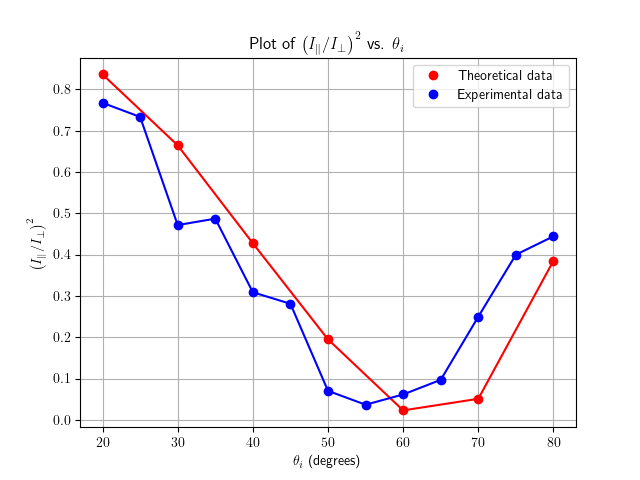
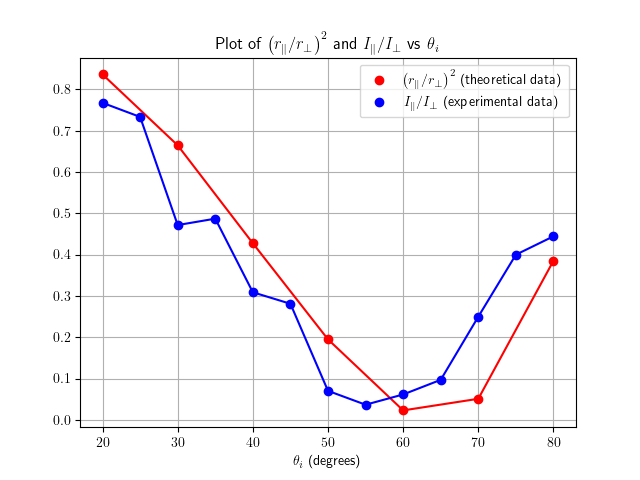
May 17, 2024: Update r9.tex

Changed region(s): [[0.3438, 0.0625, 0.875, 0.25], [0.0312, 0.5312, 0.0625, 0.5625]]

diff --git a/r9/r9.tex b/r9/r9.tex
@@ -95,11 +95,11 @@ The purpose of the experiment is to find refraction angles and intensities of pa
 
 Before starting the experiment setup needs to be calibrated. To do so we first need to mount the slit collimator away from the laser. After putting the slit collimator to configuration $\#5$, we set the angle of the angle translator to $0\degree$. Now, we can align the laser using its alignment screws to make sure the laser beam passes through the center of the detector aperture. 
 
-After mounting polarizers on and setting the angle of polarizer $\#2$ to $45\degree$ to divide light into two linear electric field components that are perpendicular to each other, we can turn the interface on. Selecting the Light Sensor, and opening the METER icon, enables us to measure light intensity. However, the interface needs to be calibrated as well, by resetting the meter, and later adjusting the intensity of polarizer $\#1$ so that the maximum reading is not more than $100\%$
+After mounting polarizers on and setting the angle of polarizer $\#2$ to $45\degree$ to divide light into two linear electric field components that are perpendicular to each other, we can turn the interface on. Selecting the Light Sensor, and opening the METER icon, enables us to measure light intensity. However, the interface needs to be calibrated as well, by resetting the meter, and later adjusting the intensity of polarizer $\#1$ so that the maximum reading is not more than $100\%$.
 
 We can now put the cylindrical lens on the pivot plate and align it with the angular translator and pivot plane so that the flat surface faces the laser beam. Rotating the plates will now result in reflection and refraction at the dielectric interface that is formed between air and the flat surface.
 
-Now we can set the incident angle at different values by turning the angular translator, and find the refraction angle by again rotating the angular translator so that intensity is maximum. After noting the angle at Table 1. We can put in the square analyzer to also record horizontal and vertical components of light. Also by finding points where horizontal intensity is zero, we can find Brewster's angle.
+Now we can set the incident angle at different values by turning the angular translator, and find the refraction angle by again rotating the angular translator so that intensity is maximum. After noting the angle in Table 1. We can put in the square analyzer to also record horizontal and vertical components of light. Also by finding points where horizontal intensity is zero, we can find Brewster's angle.
  
 \section{Data \& Results}
 
@@ -123,7 +123,7 @@ From the slope of the best-fit line in Figure~(\ref{fig:f1}), the refractive ind
 \begin{figure}[h]
   \centering
   \includegraphics[scale=0.7]{plots/p1.png}
-  \caption{Plot of $\sin(\theta_i)$ vs. $\sin(\theta_t)$ and the linear fit.}
+  \caption{Plot of $\sin(\theta_i)$ vs. $\sin(\theta_t)$ and best fit line.}
   \label{fig:f1}
 \end{figure}
 
@@ -162,7 +162,7 @@ From the slope of the best-fit line in Figure~(\ref{fig:f1}), the refractive ind
 \begin{figure}[h]
   \centering
   \includegraphics[scale=0.7]{plots/p2.png}
-  \caption{Plot of $\left(I_{\parallel}/I_{\perp}\right)^2$ vs. $\theta_i$.}
+  \caption{Plot of $\left(r_{\parallel}/r_{\perp}\right)^2$ and $I_{\parallel}/I_{\perp}$ vs. $\theta_i$.}
   \label{fig:f2}
 \end{figure}
 
@@ -181,7 +181,7 @@ The sources of error for this experiment are calibration error, human error, and
   \item \textbf{Refractive index of the air:} The refractive index of the air was assumed to be $1$.
   \item \textbf{Homogenity of the block:} The block was assumed to be homogenous.
   \item \textbf{Coherence of the light:} The light was assumed to be coherent.
-  \item \textbf{Homogenity of the medium:} Medium in which laser was travelling was assumed to be homogenous.
+  \item \textbf{Homogenity of the medium:} Medium in which the laser was traveling was assumed to be homogenous.
 \end{itemize}
 
 \subsection*{Discrepancies}
@@ -189,7 +189,9 @@ The sources of error for this experiment are calibration error, human error, and
 \subsection*{Conclusion} 
 
 \section{Extra Credit}
-Fresnel equations are a powerful tool in understanding the behavior of light at the interface of two media. They are used in many applications, such as the design of anti-reflective coatings, the study of thin films, and the design of optical components. One of most common applications of Fresnel equations is in the design of LCD displays. By controlling the polarization of light, we can control the intensity of light that passes through the display, allowing us to create images with high contrast and brightness\cite{dePooter:02}
+
+Fresnel equations are a powerful tool for understanding the behavior of light at the interface of two media. They are used in many applications, such as the design of anti-reflective coatings, the study of thin films, and the design of optical components. One of the most common applications of Fresnel equations is in the design of LCDs. By controlling the polarization of light, we can control the intensity of light that passes through the display, allowing us to create images with high contrast and brightness \cite{dePooter_2002}.
+
 \printbibliography
 
 \end{document}

diff --git a/r9/plots/p2.py b/r9/plots/p2.py
@@ -23,14 +23,23 @@ r_perpendicular = [
 
 y_theoretical = [(r_parallel[i] / r_perpendicular[i]) ** 2 for i in range(len(theta_i))]
 y_exp = [(I_parallel_exp[i] / I_perpendicular_exp[i]) for i in range(len(theta_i_exp))]
-plt.plot(theta_i, y_theoretical, "ro", label="Theoretical data")
+plt.plot(
+    theta_i,
+    y_theoretical,
+    "ro",
+    label=r"$\left(r_{\parallel}/r_{\perp}\right)^2$ (theoretical data)",
+)
 plt.plot(theta_i, y_theoretical, "r")
-plt.plot(theta_i_exp, y_exp, "bo", label=r"$\left(I_{\parallel}/I_{\perp}$")
+plt.plot(
+    theta_i_exp, y_exp, "bo", label=r"$I_{\parallel}/I_{\perp}$ (experimental data)"
+)
 plt.plot(theta_i_exp, y_exp, "b")
 plt.xlabel(r"$\theta_i$ (degrees)")
-plt.ylabel(r"$\left(I_{\parallel}/I_{\perp}$")
-plt.title(r"Plot of $\left(I_{\parallel}/I_{\perp}\right)^2$ vs. $\theta_i$")
+# plt.ylabel()
+plt.title(
+    r"Plot of $\left(r_{\parallel}/r_{\perp}\right)^2$ and $I_{\parallel}/I_{\perp}$ vs $\theta_i$"
+)
 plt.legend(loc="upper right")
 plt.grid(True)
-plt.show()
-# plt.savefig("p2.png")
+# plt.show()
+plt.savefig("p2.png")

diff --git a/r9/plots/p1.py b/r9/plots/p1.py
@@ -16,12 +16,12 @@ plt.scatter(sin_theta_t, sin_theta_i, label="Data", marker="o")
 
 m, b = np.polyfit(sin_theta_t, sin_theta_i, deg=1)
 
-plt.axline(xy1=(0, b), slope=m, color="green", label="Best fit", linestyle="--")
+plt.axline(xy1=(0, b), slope=m, color="green", label="Best fit line", linestyle="--")
 plt.xlabel(r"$\sin(\theta_t)$")
 plt.ylabel(r"$\sin(\theta_i)$")
-plt.title(r"Plot of $\sin(\theta_i)$ vs. $\sin(\theta_t)$")
+plt.title(r"Plot of $\sin(\theta_i)$ vs. $\sin(\theta_t)$ and best fit line")
 plt.legend(loc="upper left")
 plt.grid(True)
 
-print(m, b)
+# print(m, b)
 plt.savefig("p1.png", dpi=300)
